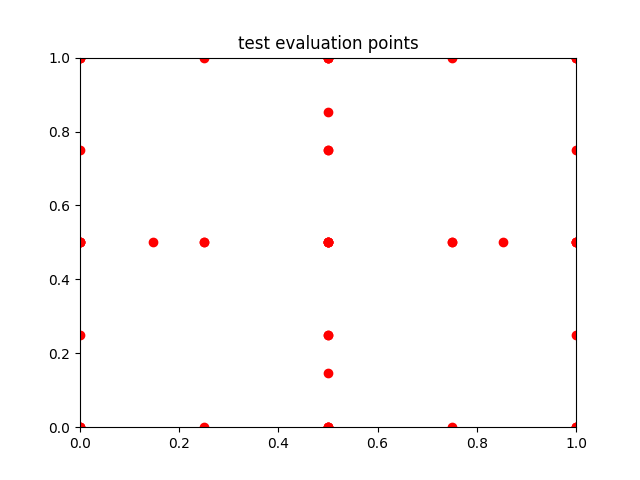
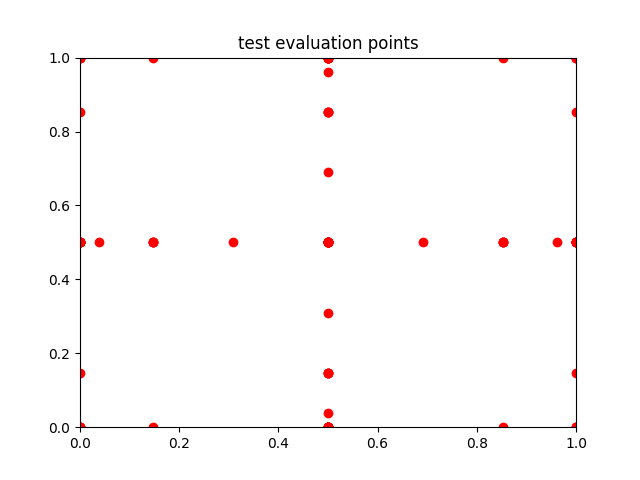
just have weights left for cc

diff --git a/test_smolyak.py b/test_smolyak.py
@@ -1,6 +1,7 @@
 import numpy as np
 import smolyak
 import unittest
+import quadpy
 
 
 class TestSmolyak(unittest.TestCase):
@@ -108,14 +109,15 @@ class TestSmolyak(unittest.TestCase):
         def plot(l):
             f.record_evaluations()
             smolyak_integral = smolyak.smolyak_integrate(f, l)
-            print(len(set(f.points)))
-            print()
+            # print(len(set(f.points)))
+            # print()
             f.plot_evaluated_points("eval_"+str(l)+".png")
         plot(1)
         plot(2)
         plot(3)
         plot(4)
         plot(5)
+        plot(6)
         
     def test_clenshaw(self):
         j = [1]
@@ -152,9 +154,155 @@ class TestSmolyak(unittest.TestCase):
         for e, o in zip(expected, output):
             self.assertAlmostEqual(e,o)
 
+    def test_q_k(self):
+        a = [2,2]
+        u = [.5,.5]
+        f = smolyak.Hyper_Plane(a,u)
+        d, l = 2, 3
+        q = smolyak.q(d,l,f)
+        k = [each for each in q.k()]
+
+        dim = 2
+        level = 2
+        all_k = smolyak.generate_k(dim, level)
+        check = [each for each in all_k]
+        self.assertEqual(check, k)
+            
+
+        d, l = 2, 4
+        q = smolyak.q(d,l,f)
+        k = [each for each in q.k()]
+        # self.assertEqual(k, [[1,1],[1,2],[2,1]])
+        dim = 2
+        level = 3
+        all_k = smolyak.generate_k(dim, level)
+        check = [each for each in all_k]
+        self.assertEqual(check, k)
+    def test_q_k(self):
+        a = [2,2]
+        u = [.5,.5]
+        f = smolyak.Hyper_Plane(a,u)
+        d, l = 2, 3
+        q = smolyak.q(d,l,f)
+        k = [each for each in q.get_k()]
+
+        dim = 2
+        level = 2
+        all_k = smolyak.generate_k(dim, level)
+        check = [each for each in all_k]
+        self.assertEqual(check, k)
+            
+
+        d, l = 2, 4
+        q = smolyak.q(d,l,f)
+        k = [each for each in q.get_k()]
+        # self.assertEqual(k, [[1,1],[1,2],[2,1]])
+        dim = 2
+        level = 3
+        all_k = smolyak.generate_k(dim, level)
+        check = [each for each in all_k]
+        self.assertEqual(check, k)
+    def test_q_j(self):
+        a = [2,2]
+        u = [.5,.5]
+        f = smolyak.Hyper_Plane(a,u)
+        d, l = 2, 3
+        q = smolyak.q(d,l,f)
+        j1 = []
+        for k in q.get_k():
+            j1 += [each for each in q.get_j(k)]
 
 
-        
+        dim = 2
+        level = 2
+        all_k = smolyak.generate_k(dim, level)
+        j = []
+        for k in all_k:
+            all_j = smolyak.generate_midpoint_j(k)
+            for j_i in all_j:
+                j.append(j_i)
+        self.assertEqual(j, j1)
+
+        d, l = 2, 4
+        q = smolyak.q(d,l,f)
+        j1 = []
+        for k in q.get_k():
+            j1 += [each for each in q.get_j(k)]
+
+
+
+        dim = 2
+        level = 3
+        all_k = smolyak.generate_k(dim, level)
+        j = []
+        for k in all_k:
+            all_j = smolyak.generate_midpoint_j(k)
+            for j_i in all_j:
+                j.append(j_i)
+        self.assertEqual(j, j1)
+    def test_q_cc(self):
+        a = [2,2]
+        u = [.5,.5]
+        f = smolyak.Hyper_Plane(a,u)
+        d=2
+        def plot(l):
+            q = smolyak.q(d,l,f)
+            f.record_evaluations()
+            smolyak_integral = q.integrate(l)
+            f.plot_evaluated_points("eval_"+str(l)+".png")
+        plot(2)
+        plot(3)
+        plot(4)
+        plot(5)
+        plot(6)
+        #check this against fig 1
+        #https://bfi.uchicago.edu/wp-content/uploads/Judd-Maliar-Valero.pdf
+    def test_q_cc_w(self):
+        a = [2]
+        u = [.5]
+        f = smolyak.Hyper_Plane(a,u)
+        d=2
+        l=3
+        #check
+        scheme = quadpy.c1.clenshaw_curtis(l)
+        p_check = [each/2 +.5 for each in scheme.points]
+        w_check = scheme.weights
+        print(p_check)
+        print(w_check)
+        #my implementation
+        q = smolyak.q(d,l,f)
+        k = l-1
+        weights = []
+        points = []
+        for j in range(1,q.get_m(k)+1):
+            
+            p, w = q._cc_point_weight([j], [k])
+            # i = p_check.index(p)
+            # self.assertTrue()
+            weights.append(w)
+            points.append(p)
+        print(weights)
+        print(points)
+
+    def test_q_integrate(self):
+        a = [2,2]
+        u = [.5,.5]
+        f = smolyak.Hyper_Plane(a,u)
+        d=2
+        l=3
+        q = smolyak.q(d,l,f)
+        smolyak_integral = q.integrate(l)
+        check = sp.SparseGrid(sp.CC, d, l, 0).sparseGrid()
+        print(check)
+        self.assertAlmostEqual(2, smolyak_integral, places=2)
+
+    def test_q_integrate_2(self):
+        a = [5,5]
+        u = [.5,.5]
+        f = smolyak.Continuous_Function(a,u)
+        smolyak_integral = smolyak.smolyak_integrate(f)
+        cubature_integral = smolyak.adaptive_cubature(f)
+        self.assertAlmostEqual(cubature_integral, smolyak_integral, places=2)
 
 
     # def test_isupper(self):

diff --git a/smolyak.py b/smolyak.py
@@ -145,7 +145,8 @@ class Discontinuous_Function(Function):
         super().plot("discontinuous")
 class Hyper_Plane(Function):
     def evaluate(self, x):
-        self.points.append(x)
+        if self.record:
+            self.points.append(x)
         return self.a[0]
 def yield_tensor(dim, points_per_dim, point=None):
     if dim == 0:
@@ -301,6 +302,77 @@ def smolyak_integrate(f, l=5):
             evaluated[point] = f.evaluate(point)
         integrand += weight * evaluated[point] #create custom memoization evaluate
     return integrand
+
+class q():
+    def __init__(self,d,l,f,cc=True):
+        self.d = d 
+        self.l = l 
+        self.f = f 
+        self.cc=cc
+    def get_k(self):
+        def sum_k(length,d,k=[]):
+            #k iterates thrgouh dimensional quadrature levels
+            if len(k) == d:
+                yield k.copy()
+            else:
+                for i in range(1,length+1):
+                    k.append(i)
+                    yield from sum_k(length-i, d, k)
+                    k.pop()
+        yield from sum_k(self.l,self.d)
+    def get_m(self,k_i):
+        if self.cc:
+            return 1 if k_i ==1 else 2**(k_i-1)+1
+        raise NotImplementedError("add smolyak midpoint cubature")
+    def get_j(self, k):
+        #j iterates through the number of points for quadrature levels defined by k
+        d,l= self.d,self.l
+        def sum_j(k,j=[]):
+            if len(j) == d:
+                yield j.copy()
+            else:
+                for j_i in range(1,self.get_m(k[0])+1):
+                    j.append(j_i)
+                    yield from sum_j(k[1:], j)
+                    j.pop()
+        yield from sum_j(k)
+    def _cc_point_weight(self, j, k):
+        d,l= self.d,self.l
+        weight = 1
+        point = []
+        for j_i, k_i in zip(j,k):
+            n = self.get_m(k_i)
+            coord = .5 if n==1 else np.cos(np.pi*(j_i-1)/(n-1))/2+.5
+            point.append(coord)
+            if j_i == 1:
+                weight *= 1/(n*(n-2))
+            else:
+                term = 0
+                for i in range(1, (n-3)//2+1):
+                    term += 1/(4*i**2-1)*np.cos(2 * np.pi * i * (j_i-1)/(n-1))
+                w = 2/(n-1) * (1-np.cos(np.pi * (j_i-1)/n/(n-2)) - 2*term)
+                weight *= w
+
+        return tuple(point), weight
+
+    def cc_point_weights(self):
+        for k in self.get_k():
+            for j in self.get_j(k):
+                point, weight = self._cc_point_weight(j,k)
+                yield point, weight
+    
+    def integrate(self,l=5):
+        f = self.f
+        self.l = l
+        integrand = 0
+        for point, weight in self.cc_point_weights():
+            integrand += weight * f.evaluate(point) #create custom memoization evaluate
+        return integrand
+
+
+    
+    
+            
 
 def tensor_integrate(f):
     d = f.dimension()

diff --git a/smolyak_checker.py b/smolyak_checker.py
@@ -1,0 +1,7 @@
+import numpy as np
+import quadpy
+
+scheme = quadpy.c1.clenshaw_curtis(5)
+
+print(scheme.points)
+print(scheme.weights)
